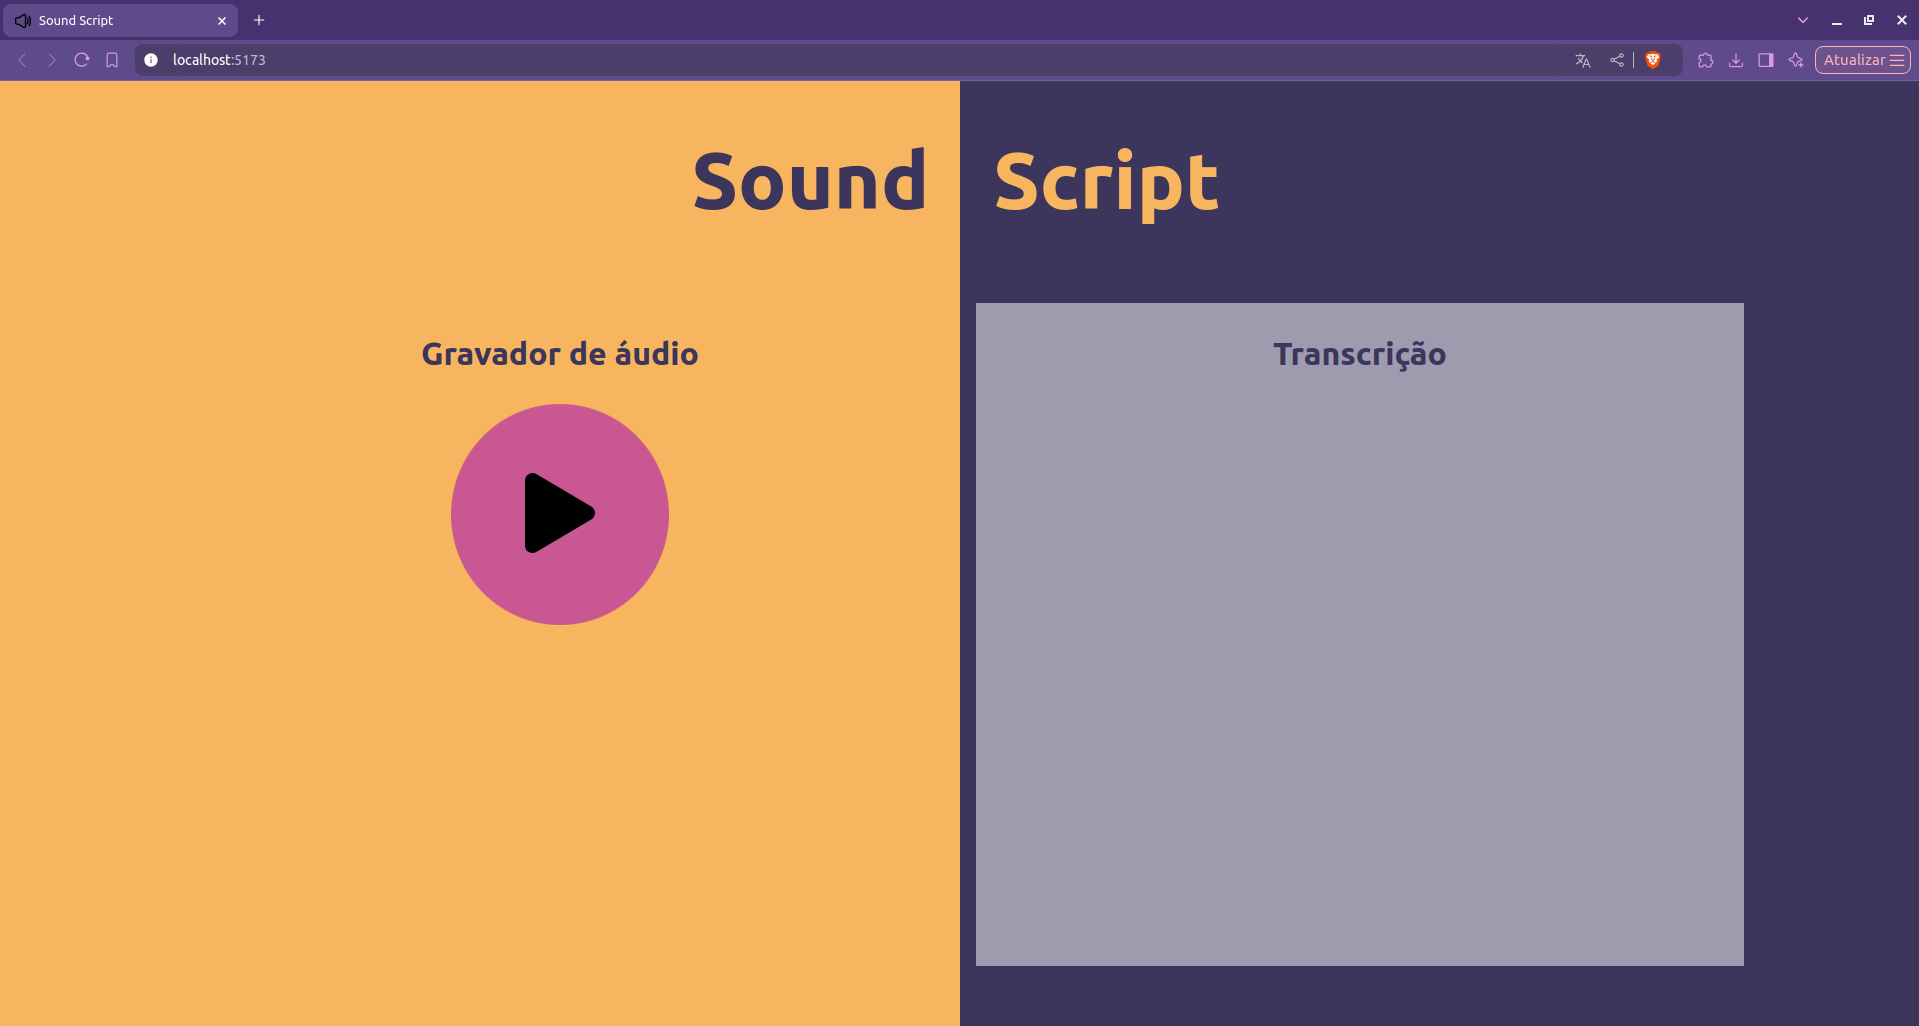
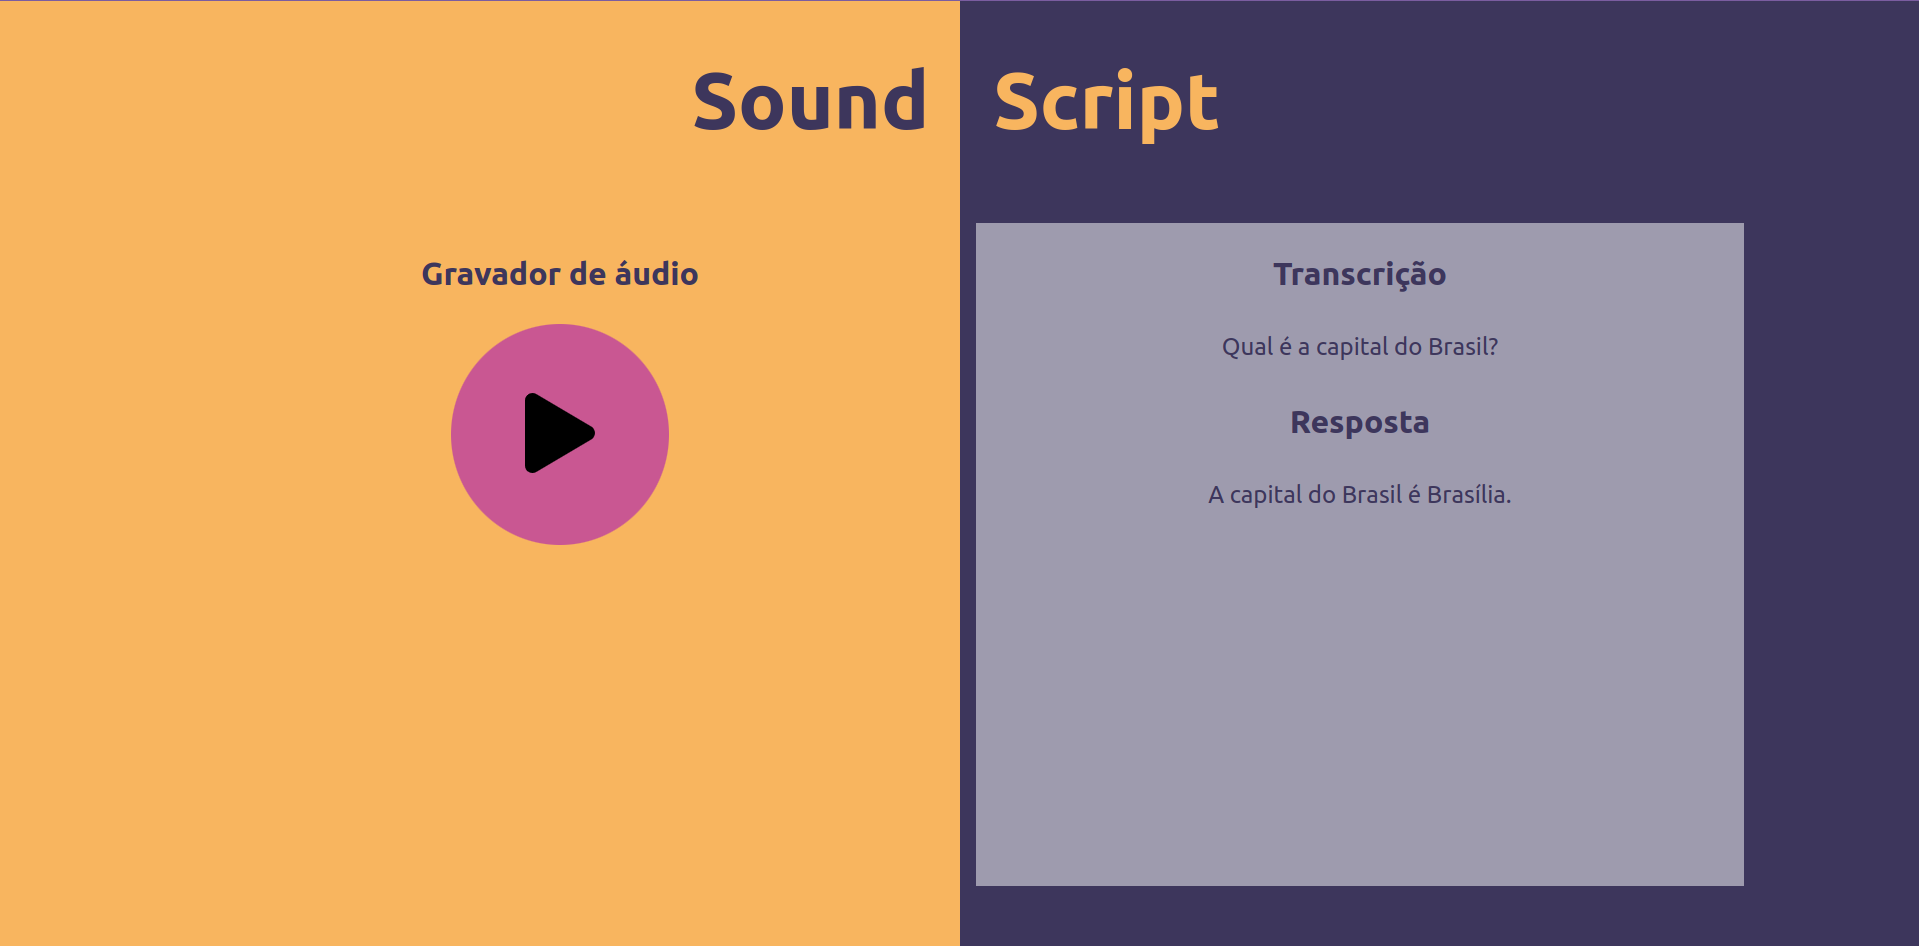
feat: update readme

diff --git a/README.md b/README.md
@@ -1,6 +1,6 @@
 # Sound Script
 
-Paǵina WEB simples integrada com OpenAI API para transcrição de áudios capturados por microfone.
+Paǵina WEB simples integrada com OpenAI API para transcrição de áudios capturados por microfone e resposta simples de prompt.
 
 ## Tecnologias utilizadas
 
